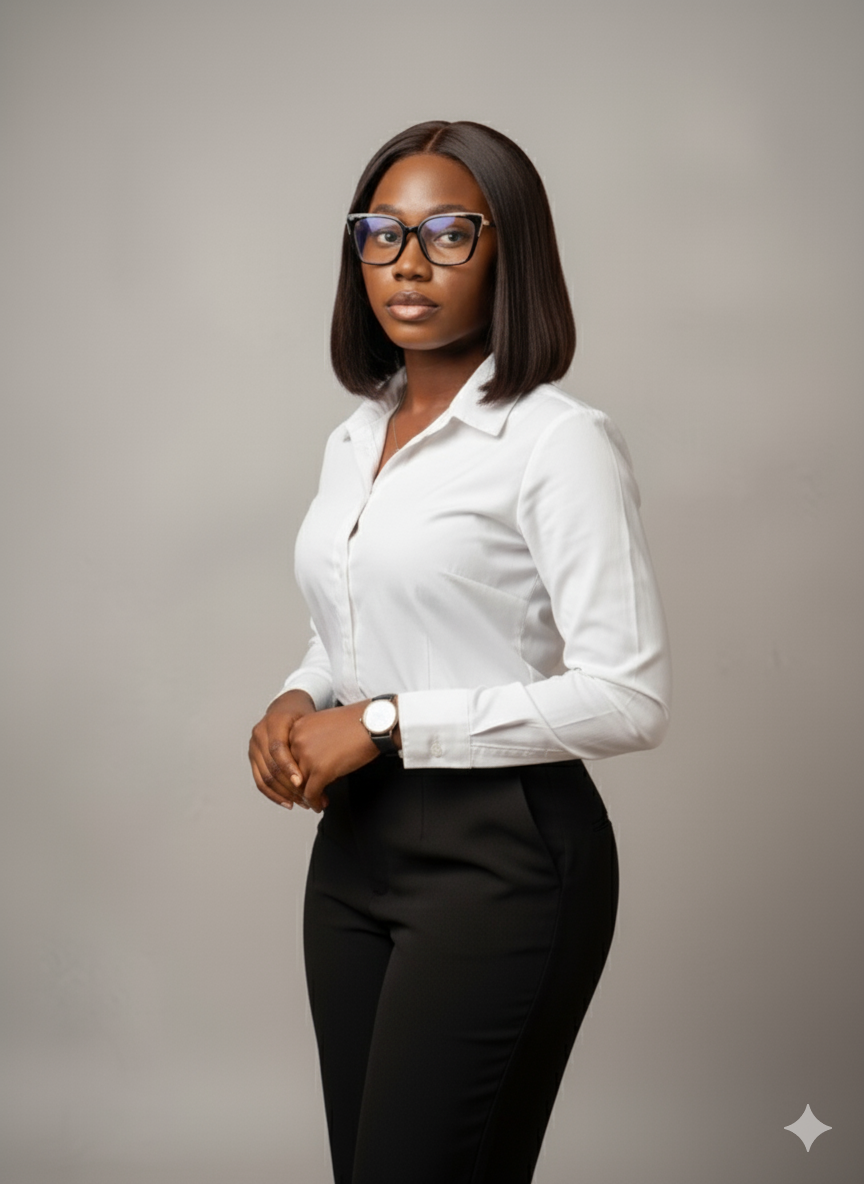
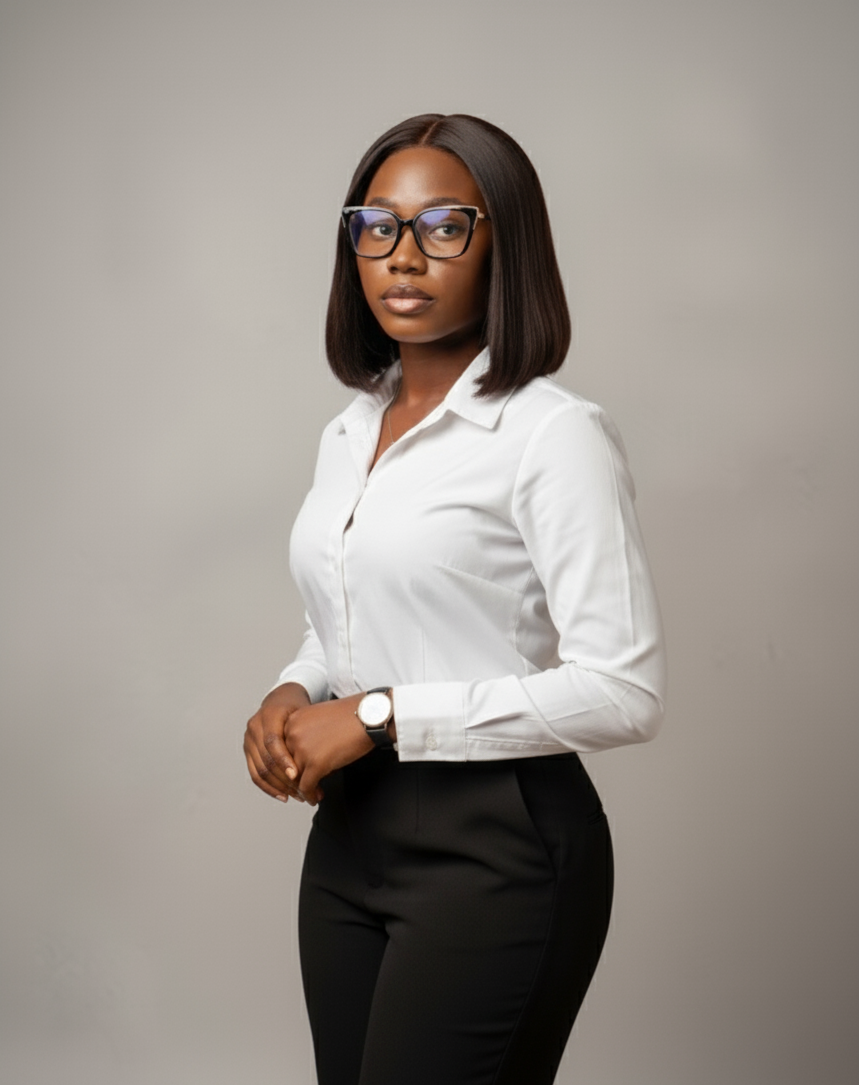
home components v1

diff --git a/src/pages/Home/Stack.jsx b/src/pages/Home/Stack.jsx
@@ -1,0 +1,101 @@
+import React from 'react'
+import StackCard from '../../components/Cards/StackCard'
+import Spec from '../../components/Cards/Spec'
+
+const Stack = () => {
+
+    const stacks =[
+        {
+            id:"react",
+            number:1,
+            name:"React",
+            colStart:"md:col-start-1",
+            rowStart:"md:row-start-1",
+            info:"Virtual DOM reconciliation & component architecture.",
+            txtColor:"text-accent-orange",
+            borderColor:"border-accent-orange",
+            bgColor:"bg-accent-orange/10",
+        },
+        {
+            id:"tailwind",
+            number:2,
+            name:"Tailwind",
+            colStart:"md:col-start-3",
+            rowStart:"md:row-start-1",
+            info:"Utility-first design systems & rapid prototyping.",
+            txtColor:"text-primary",
+            borderColor:"border-primary",
+            bgColor:"bg-primary/10",
+        },
+        {
+            id:"typescript",
+            number:3,
+            name:"Typescript",
+            colStart:"md:col-start-2",
+            rowStart:"md:row-start-2",
+            info:"Static typing & enterprise-grade code safety.",
+            txtColor:"text-slate-500",
+            borderColor:"border-slate-500",
+            bgColor:"bg-slate-500/10",
+        },
+        {
+            id:"jquery",
+            number:4,
+            name:"JQuery",
+            colStart:"md:col-start-1",
+            rowStart:"md:row-start-3",
+            info:"Legacy maintenance & direct DOM manipulation.",
+            txtColor:"text-slate-500",
+            borderColor:"border-slate-500",
+            bgColor:"bg-slate-500/10",
+        },
+        {
+            id:"threejs",
+            number:5,
+            name:"ThreeJS",
+            colStart:"md:col-start-3",
+            rowStart:"md:row-start-3",
+            info:"Interactive, fun and moving websites",
+            txtColor:"text-primary",
+            borderColor:"border-primary",
+            bgColor:"bg-primary/10",
+        },
+    ]
+
+  return (
+    <div className='technical-grid flex flex-col lg:grid lg:grid-cols-3 gap-10 bg-background-light dark:bg-background-dark min-h-screen py-8 px-4'>
+    <div className='col-span-1 space-y-6 md:space-y-4'>
+        <Spec number={"03"} label={"Architecture"} />
+        <h1 class="text-6xl md:text-7xl xl:text-8xl font-black tracking-tight leading-[0.9] text-neutral-dark dark:text-slate-100">
+            Frontend <br/>Engineer.
+        </h1>
+        <p class="max-w-xl text-lg text-neutral-600 dark:text-slate-400 leading-relaxed font-light">
+            Architecting performant, scalable web applications with a focus on React ecosystems and technical logic. Specialized in bridging the gap between high-end design and engineering precision.
+        </p>
+        <div className='flex flex-col gap-2 mt-8 py-8 border-t-[0.5px] border-t-neutral-400 dark:border-t-slate-400`'>
+            <div className='flex items-center gap-4'>
+                <div className='h-3 w-3 bg-accent-orange'></div>
+                <p className='uppercase text-neutral-600 dark:text-slate-400 text-xs font-bold'>PRIMARY CORE</p>
+            </div>
+            <div className='flex items-center gap-4'>
+                <div className='h-3 w-3 bg-primary'></div>
+                <p className='uppercase text-neutral-600 dark:text-slate-400 text-xs font-bold'>INTERFACE LOGIC</p>
+            </div>
+            <div className='flex items-center gap-4'>
+                <div className='h-3 w-3 bg-slate-400 dark:bg-background-light'></div>
+                <p className='uppercase text-neutral-600 dark:text-slate-400 text-xs font-bold'>UTILITY</p>
+            </div>
+        </div>
+    </div>
+      <div className='col-span-2 py-4 grid lg:grid-cols-3 md:grid-rows-3 gap-4 text-background-dark dark:text-background-light'>
+          {
+           stacks.map((stk, idx)=>(
+            <StackCard key={idx} stack={stk.name} number={stk.number} info={stk.info} colStart={stk.colStart} rowStart={stk.rowStart} txtColor={stk.txtColor} bgColor={stk.bgColor} borderColor={stk.borderColor} />
+        ))
+     }
+      </div>
+    </div>
+  )
+}
+
+export default Stack

diff --git a/src/pages/Home/Hero.jsx b/src/pages/Home/Hero.jsx
@@ -1,0 +1,34 @@
+import React from 'react'
+import Spec from '../../components/Cards/Spec'
+import isioma from "../../assets/images/Issie-standing.png"
+import { MdTerminal } from "react-icons/md";
+
+const Hero = () => {
+  return (
+    <div className='px-8 grid md:grid-cols-2 gap-10 bg-background-light dark:bg-background-dark pt-10 pb-20 mb-10 min-h-screen border-b-[0.5px] border-b-neutral-400 dark:border-b-slate-400'>
+        <div className='space-y-6'>
+            <Spec addBorder number={"01"} label={"IDENTITY"} />
+         <h1 class="text-6xl md:text-7xl xl:text-8xl font-black tracking-tight leading-[0.9] text-neutral-dark dark:text-slate-100">
+            Frontend <br/>Engineer.
+        </h1>            
+        <p className='text-sm text-neutral-600 dark:text-slate-400 tracking-tighter max-w-lg'>Architecting performant, scalable web applications with a focus on React ecosystems and technical logic. Specialized in bridging the gap between high-end design anf engineering precision.</p>
+        </div>
+        <div className='flex items-end md:justify-end '>
+            <div className='relative md:w-md aspect-square'>
+                <img src={isioma} alt="A picture of me standing facing forward at a 3/4 turn." className='grayscale opacity-90 mix-blend-luminosity' />
+                <div className='absolute text-neutral-600 dark:text-slate-400 bg-background-light/10 backdrop-blur-md border border-white/10 p-4 right-6 left-6 rounded-md bottom-6'>
+                    <div class="flex justify-between items-end">
+                    <div>
+                    <p class="text-[10px] text-white/60 uppercase tracking-widest mb-1">Current Focus</p>
+                    <p class="text-white font-mono text-sm uppercase">React & Typescript</p>
+                    </div>
+                    <MdTerminal className='text-accent-orange' size="24" />                    
+                </div>
+                </div>
+            </div>
+        </div>
+    </div>
+  )
+}
+
+export default Hero

diff --git a/src/pages/Home/Home.jsx b/src/pages/Home/Home.jsx
@@ -1,26 +1,36 @@
 import React from 'react'
-import isioma from "../../assets/images/Issie-standing.png"
 import NavBar from '../../components/Nav/NavBar'
+import Stack from './Stack'
+import Hero from './Hero'
+import Footer from './Footer'
 
 const Home = () => {
   return (
-    <>
+    <div className='bg-background-light dark:bg-background-dark'>
         {/* HERO SECTION */}
-        <div className={`relative flex flex-col px-5 w-full h-screen bg-no-repeat bg-cover`} style={{backgroundImage:`url(${isioma})`}}>
+        {/* <div className={`relative flex flex-col px-5 w-full h-screen bg-no-repeat bg-cover`} style={{backgroundImage:`url(${isioma})`}}>
             <NavBar/>
             <div className='bg-black z-10 w-full h-full absolute right-0 top-0 opacity-30'></div>
                 <div className='z-20 my-auto text-black'>
                     <h1 className='text-2xl lg:text-4xl font-montserrat font-extrabold'>ISIOMA EKWEMUKA</h1>
                     <h2 className='lg:text-lg'>FRONTEND DEVELOPER & OPTOMETRIST</h2>   
                 </div>
-        </div>
+        </div> */}
 
         {/* ABOUT */}
-        <div className='font-poppins bg-white py-28 px-5 lg:px-8 xl:px-10'>
+        {/* <div className='font-poppins bg-white py-28 px-5 lg:px-8 xl:px-10'>
             <h2 className='text-2xl font-montserrat font-extrabold text-center'>ABOUT <span className='border-b-2 border-amber-500'>ME</span></h2>
             <p className='text-center py-4 mx-auto lg:max-w-10/12'> I am a dedicated and passionate frontend developer with over 3 years of experience. During that time, I have executed multiple projects to industry standards, creating aesthetic, responsive, functional and optimized websites that reflect the vision of the client.</p>
-        </div>
-    </>
+        </div> */}
+        <NavBar/>
+        {/* HERO */}
+        <Hero />
+
+        {/* STACK */}
+        <Stack />
+        {/* FOOTER */}
+        <Footer />
+    </div>
   )
 }
 

diff --git a/src/pages/Home/Footer.jsx b/src/pages/Home/Footer.jsx
@@ -1,0 +1,18 @@
+import React from 'react'
+import Spec from '../../components/Cards/Spec'
+
+const Footer = () => {
+  return (
+    <div className='px-8 bg-background-light dark:bg-background-dark py-24 my-10 min-h-screen border-t-[0.5px] border-t-neutral-400 dark:border-t-slate-400'>
+           <div className='space-y-6 flex flex-col items-center'>
+            <Spec number={"05"} label={"Reach Me"} />
+         <h1 class="uppercase text-center text-6xl md:text-7xl xl:text-8xl font-black tracking-tight leading-[0.9] text-neutral-dark dark:text-slate-100">
+            LET'S BUILD<br/>SOMETHING REAL.
+        </h1>     
+            <p className='max-w-md text-center text-sm text-neutral-600 dark:text-slate-400 tracking-tighter'>Always available to translate your designs into responsive real life masterpieces. Say Hello 🤙🏾 and let's talk!</p>
+        </div>
+    </div>
+  )
+}
+
+export default Footer

diff --git a/src/App.css b/src/App.css
@@ -12,5 +12,23 @@
   --font-playfair-display: "Playfair Display", serif; 
   --font-poppins: "Poppins", sans-serif;
   --font-montserrat: "montserrat", sans-serif;
+  --font-inter: "Inter", sans-serif;
+  --font-mono: "JetBrains Mono", monospace;
+  --color-accent-orange: #8B4513;
+  --color-primary: #0663ef;
+  --color-background-light: #fdfdfc;
+  --color-background-dark: #0F1723;
+  --color-neutral-dark: #1A1A1A;
+  --radius-default: 0.125rem;
+  --radius-lg: 0.25rem;
+  --radius-xl: 0.5rem;
+  --radius-full: 9999px;
 }
 
+
+@utility technical-grid {
+  background-image:
+    linear-gradient(to right, rgb(139 69 19 / 15%) 1px, transparent 1px),
+    linear-gradient(to bottom, rgb(139 69 19 / 15%) 1px, transparent 1px);
+  background-size: 32px 32px;
+}

diff --git a/src/components/Cards/StackCard.jsx b/src/components/Cards/StackCard.jsx
@@ -1,0 +1,14 @@
+import React from 'react'
+
+
+const StackCard = ({colStart, rowStart, number, stack, info, txtColor, bgColor, borderColor}) => {
+  return (
+    <div className={`mx-auto flex flex-col justify-center ${colStart || ""} ${rowStart || ""} ${bgColor || "bg-primary/10"} border ${borderColor || "border-primary"} p-6 space-y-3 relative w-full md:w-fit`}>
+        <span class={`text-[12px] font-mono ${txtColor || "text-primary"}`}>0x{number || "2"}</span>
+        <h4 class="text-xl font-bold uppercase italic">{stack || "Tailwind"}</h4>
+        <p class="text-[12px] text-slate-500 leading-tight">{info || "Utility-first design systems & rapid prototyping."}</p>
+    </div>
+  )
+}
+
+export default StackCard

diff --git a/src/components/Cards/Spec.jsx b/src/components/Cards/Spec.jsx
@@ -1,0 +1,9 @@
+import React from 'react'
+
+const Spec = ({number, textColor, label, addBorder}) => {
+  return (
+    <div className={`font-mono text-sm tracking-tighter uppercase ${addBorder && "border-l-2 pl-4 border-accent-orange"} ${textColor || "text-accent-orange"}`} >Spec-{number || "00"}: {label || "LABEL"}</div>
+  )
+}
+
+export default Spec
